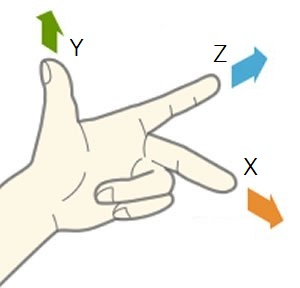
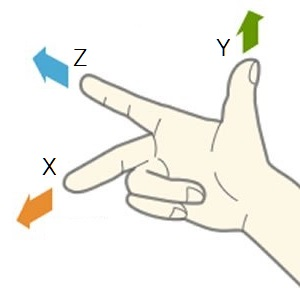
a

diff --git a/1_JavaScript/JavaScript.html b/1_JavaScript/JavaScript.html
@@ -1,0 +1,52 @@
+<!DOCTYPE html>
+<html lang="en">
+
+<head>
+  <meta charset="utf-8">
+  <meta name="viewport" content="width=device-width, initial-scale=1">
+  <meta name="description"
+    content="Loops, Conditional Statements, Functions, Variables, Parameters, Arrays, Associative Arrays">
+  <title>CIT 261 | Topic 1 | JavaScript</title>
+  <link rel="stylesheet" href="../main/styles/normalize.css">
+  <link rel="stylesheet" href="../main/styles/main.css">
+  <link rel="stylesheet" href="styles/style.css">
+</head>
+
+<body>
+  <h6>JavaScript - Loops, Conditional Statements, Functions, Variables, Parameters, Arrays, Associative Arrays</h6>
+  <p>Sources: <a href="https://www.w3schools.com/js/js_loop_for.asp" target="_blank">W3 Schools: Loops</a><br>
+    <a href="https://www.w3schools.com/js/js_if_else.asp" target="_blank">W3 Schools: Conditional Statements</a><br>
+    <a href="https://www.w3schools.com/js/js_functions.asp" target="_blank">W3 Schools: Functions</a><br>
+    <a href="https://www.w3schools.com/js/js_variables.asp" target="_blank">W3 Schools: Variables</a><br>
+    <a href="https://www.w3schools.com/js/js_function_parameters.asp" target="_blank">W3 Schools: Parameters</a><br>
+    <a href="https://www.w3schools.com/js/js_arrays.asp" target="_blank">W3 Schools: Arrays</a><br>
+    <a href="#" target="_blank"></a>
+  </p>
+
+  <p>Video explaining the topic (starting in 00:00:00): <a href="" target="_blank">Video</a></p>
+
+  <h1>JavaScript</h1>
+
+<h2>Loops</h2>
+<p>A Loop is a block of code made to be repeated. It runs the same code , but using different values each time</p>
+
+<h3>For Loop</h3>
+<h3>While</h3>
+<h3>Do While</h3>
+
+<h2>Conditional Statements</h2>
+<h2>Functions</h2>
+<h2>Variables</h2>
+<h2>Parameters</h2>
+<h2>Arrays</h2>
+<h2>Associative Arrays</h2>
+
+
+
+
+
+
+
+</body>
+
+</html>

diff --git a/12_Transforms/CSS3_Transforms.html b/12_Transforms/CSS3_Transforms.html
@@ -74,7 +74,7 @@
     </tr>
     <tr>
       <td>Skew</td>
-      <td>Skew the element along the X and/or Y axis.</td>
+      <td>Tilt the element along the X and/or Y axis.</td>
       <td>
         <div class="example" id="ex_skew1">Skew</div>
       </td>
@@ -91,7 +91,7 @@
     <tr>
       <td>Matrix</td>
       <td>Combine the parameters for rotation, skew and scale in a <b>Transformation Matrix</b>.<br>Translate parameters
-        express by the last 2 values.</td>
+        express by the last 2 values.<br>There are some tools to help converting transform properties into matrix values like <a href="https://meyerweb.com/eric/tools/matrix/" target="_blank">The Matrix Resolutions</a>.</td>
       <td>
         <div class="example" id="ex_matrix1">Matrix</div>
       </td>
@@ -195,7 +195,7 @@
   </tr>
 </table>
 
-<img src="images/RegraMao2.jpg" alt="Axis, right hand">
+<img src="images/RegraMao.jpg" alt="Axis, right hand">
 <p>The axis applied for CSS are different from the axis applied to robotics and aeronautics.</p>
 
   <h3>Libraries</h3>

diff --git a/index.html b/index.html
@@ -12,7 +12,7 @@
 
 <body>
   <h1>CIT261 Topics - Fluency Evidence</h1>
-  <!--<p>Topic 1: <a href="#" target="_blank">Loops, Conditional Statements, Functions, Variables, Parameters, Arrays, Associative Arrays</a></p>-->
+  <p>Topic 1: <a href="1_JavaScript/JavaScript.html" target="_blank">Loops, Conditional Statements, Functions, Variables, Parameters, Arrays, Associative Arrays</a></p>
   <p>Topic 2: <a href="2_JavaScript_Objects/JavaScript_Objects.html" target="_blank">JavaScript Objects</a></p>
   <p>Topic 3: <a href="3_JSON/JSON.html" target="_blank">JSON</a></p>
   <p>Topic 4: <a href="4_AJAX/AJAX.html" target="_blank">AJAX</a></p>
